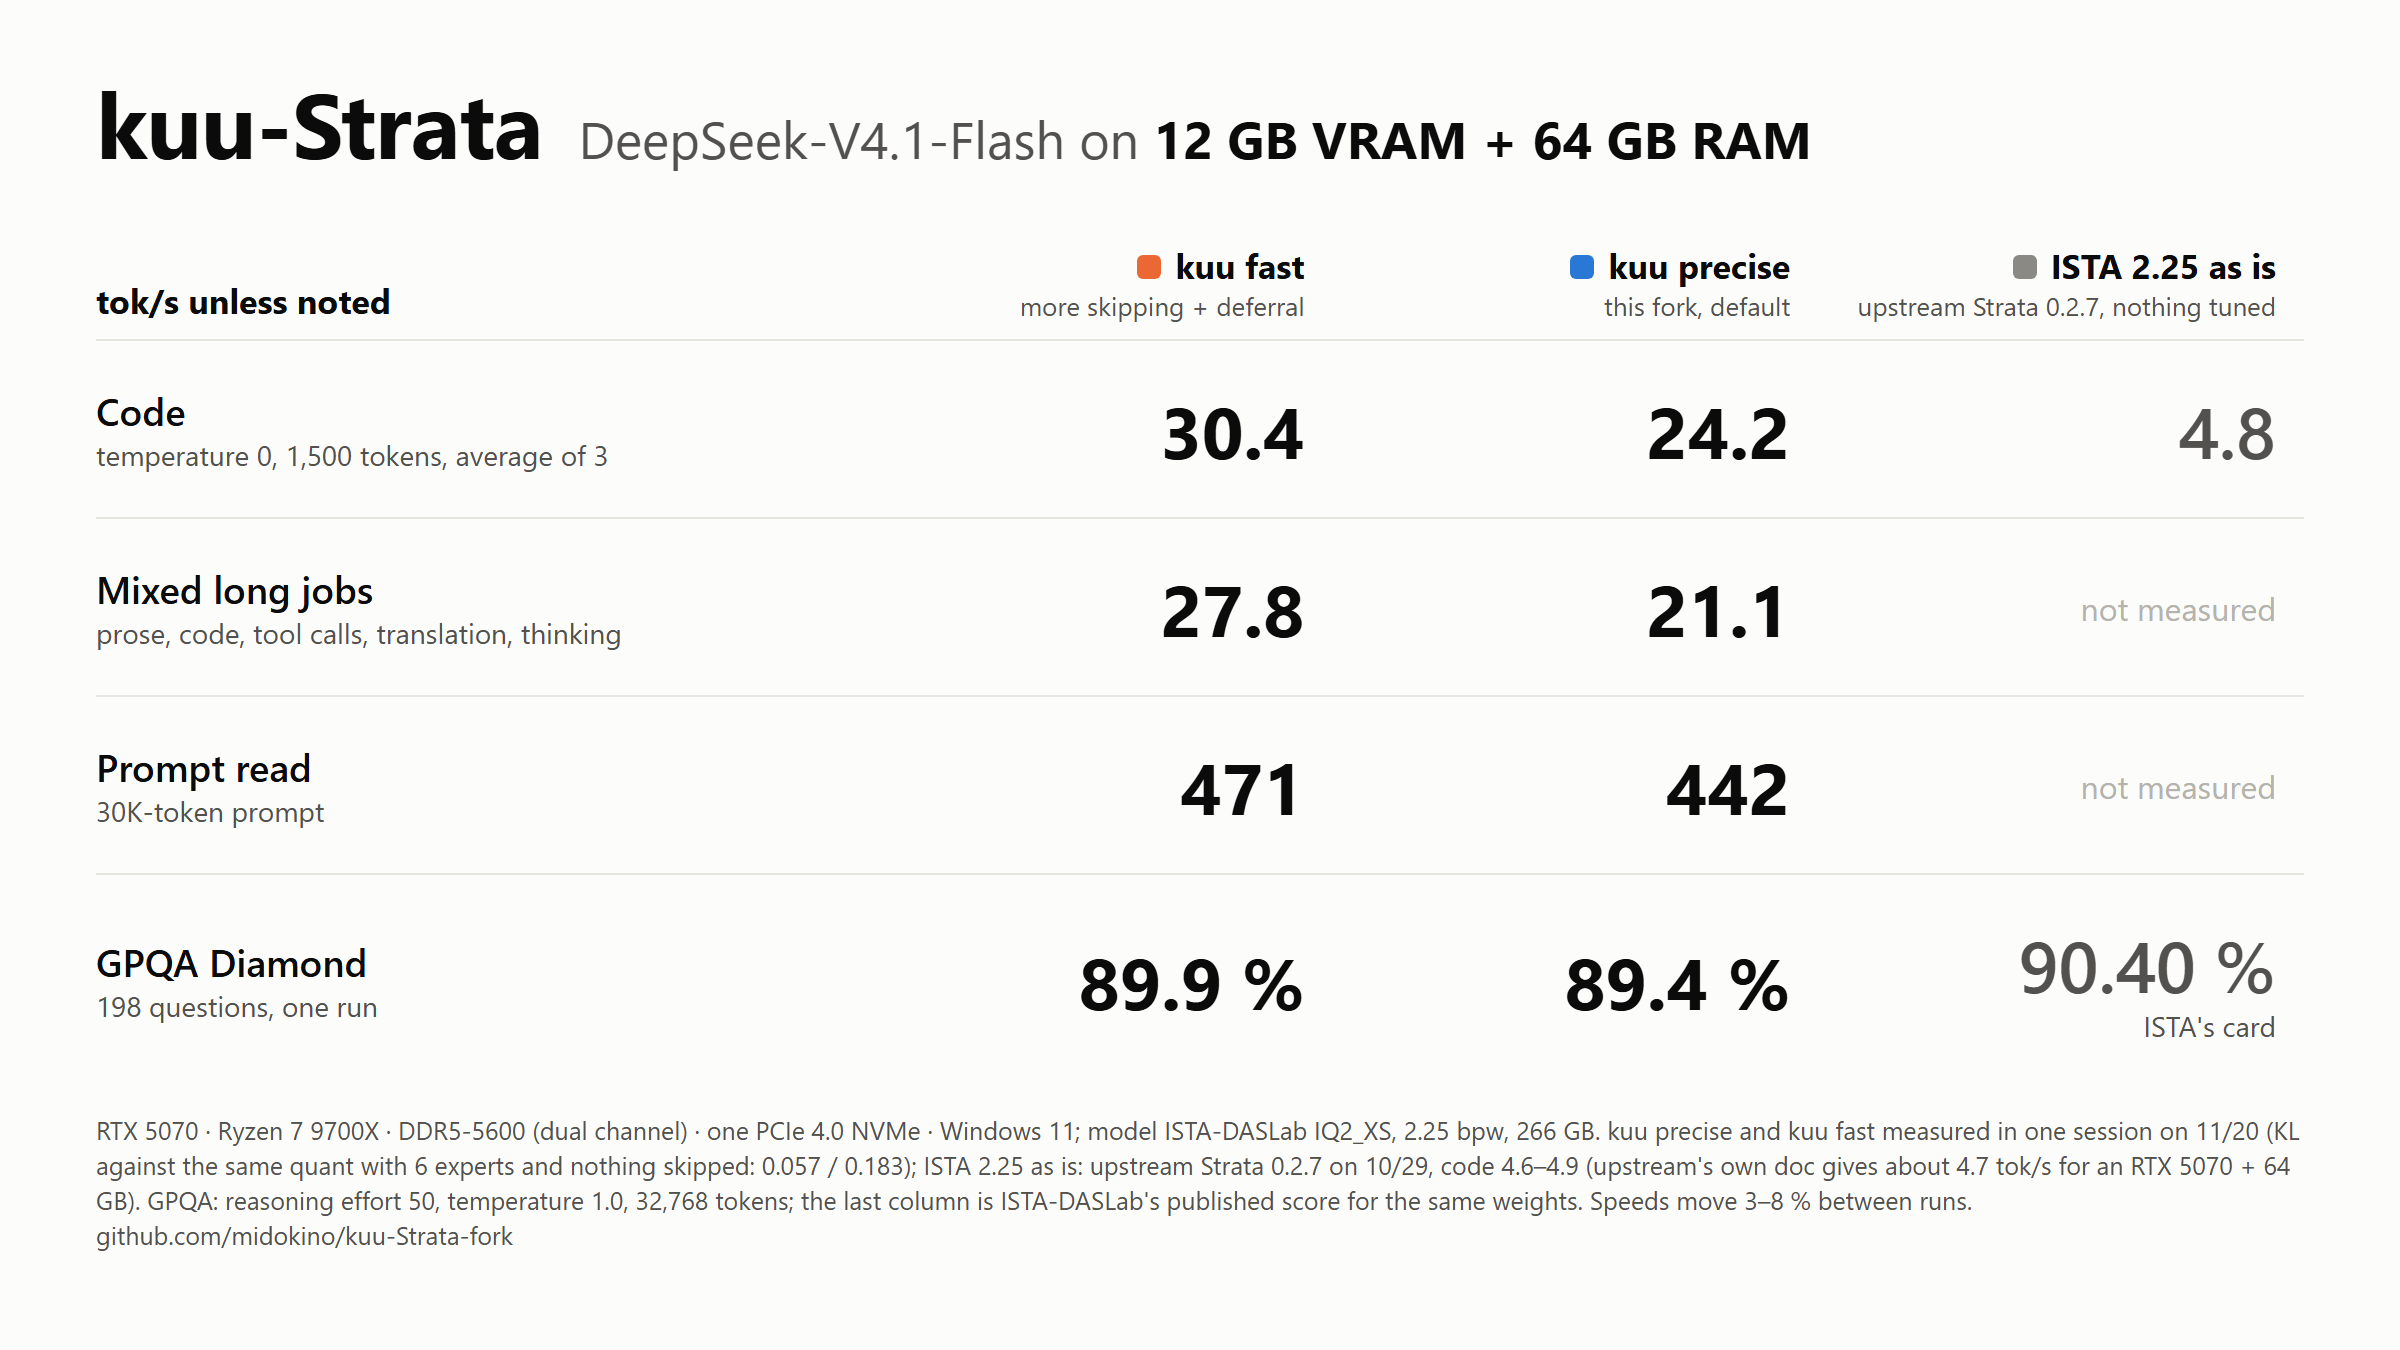
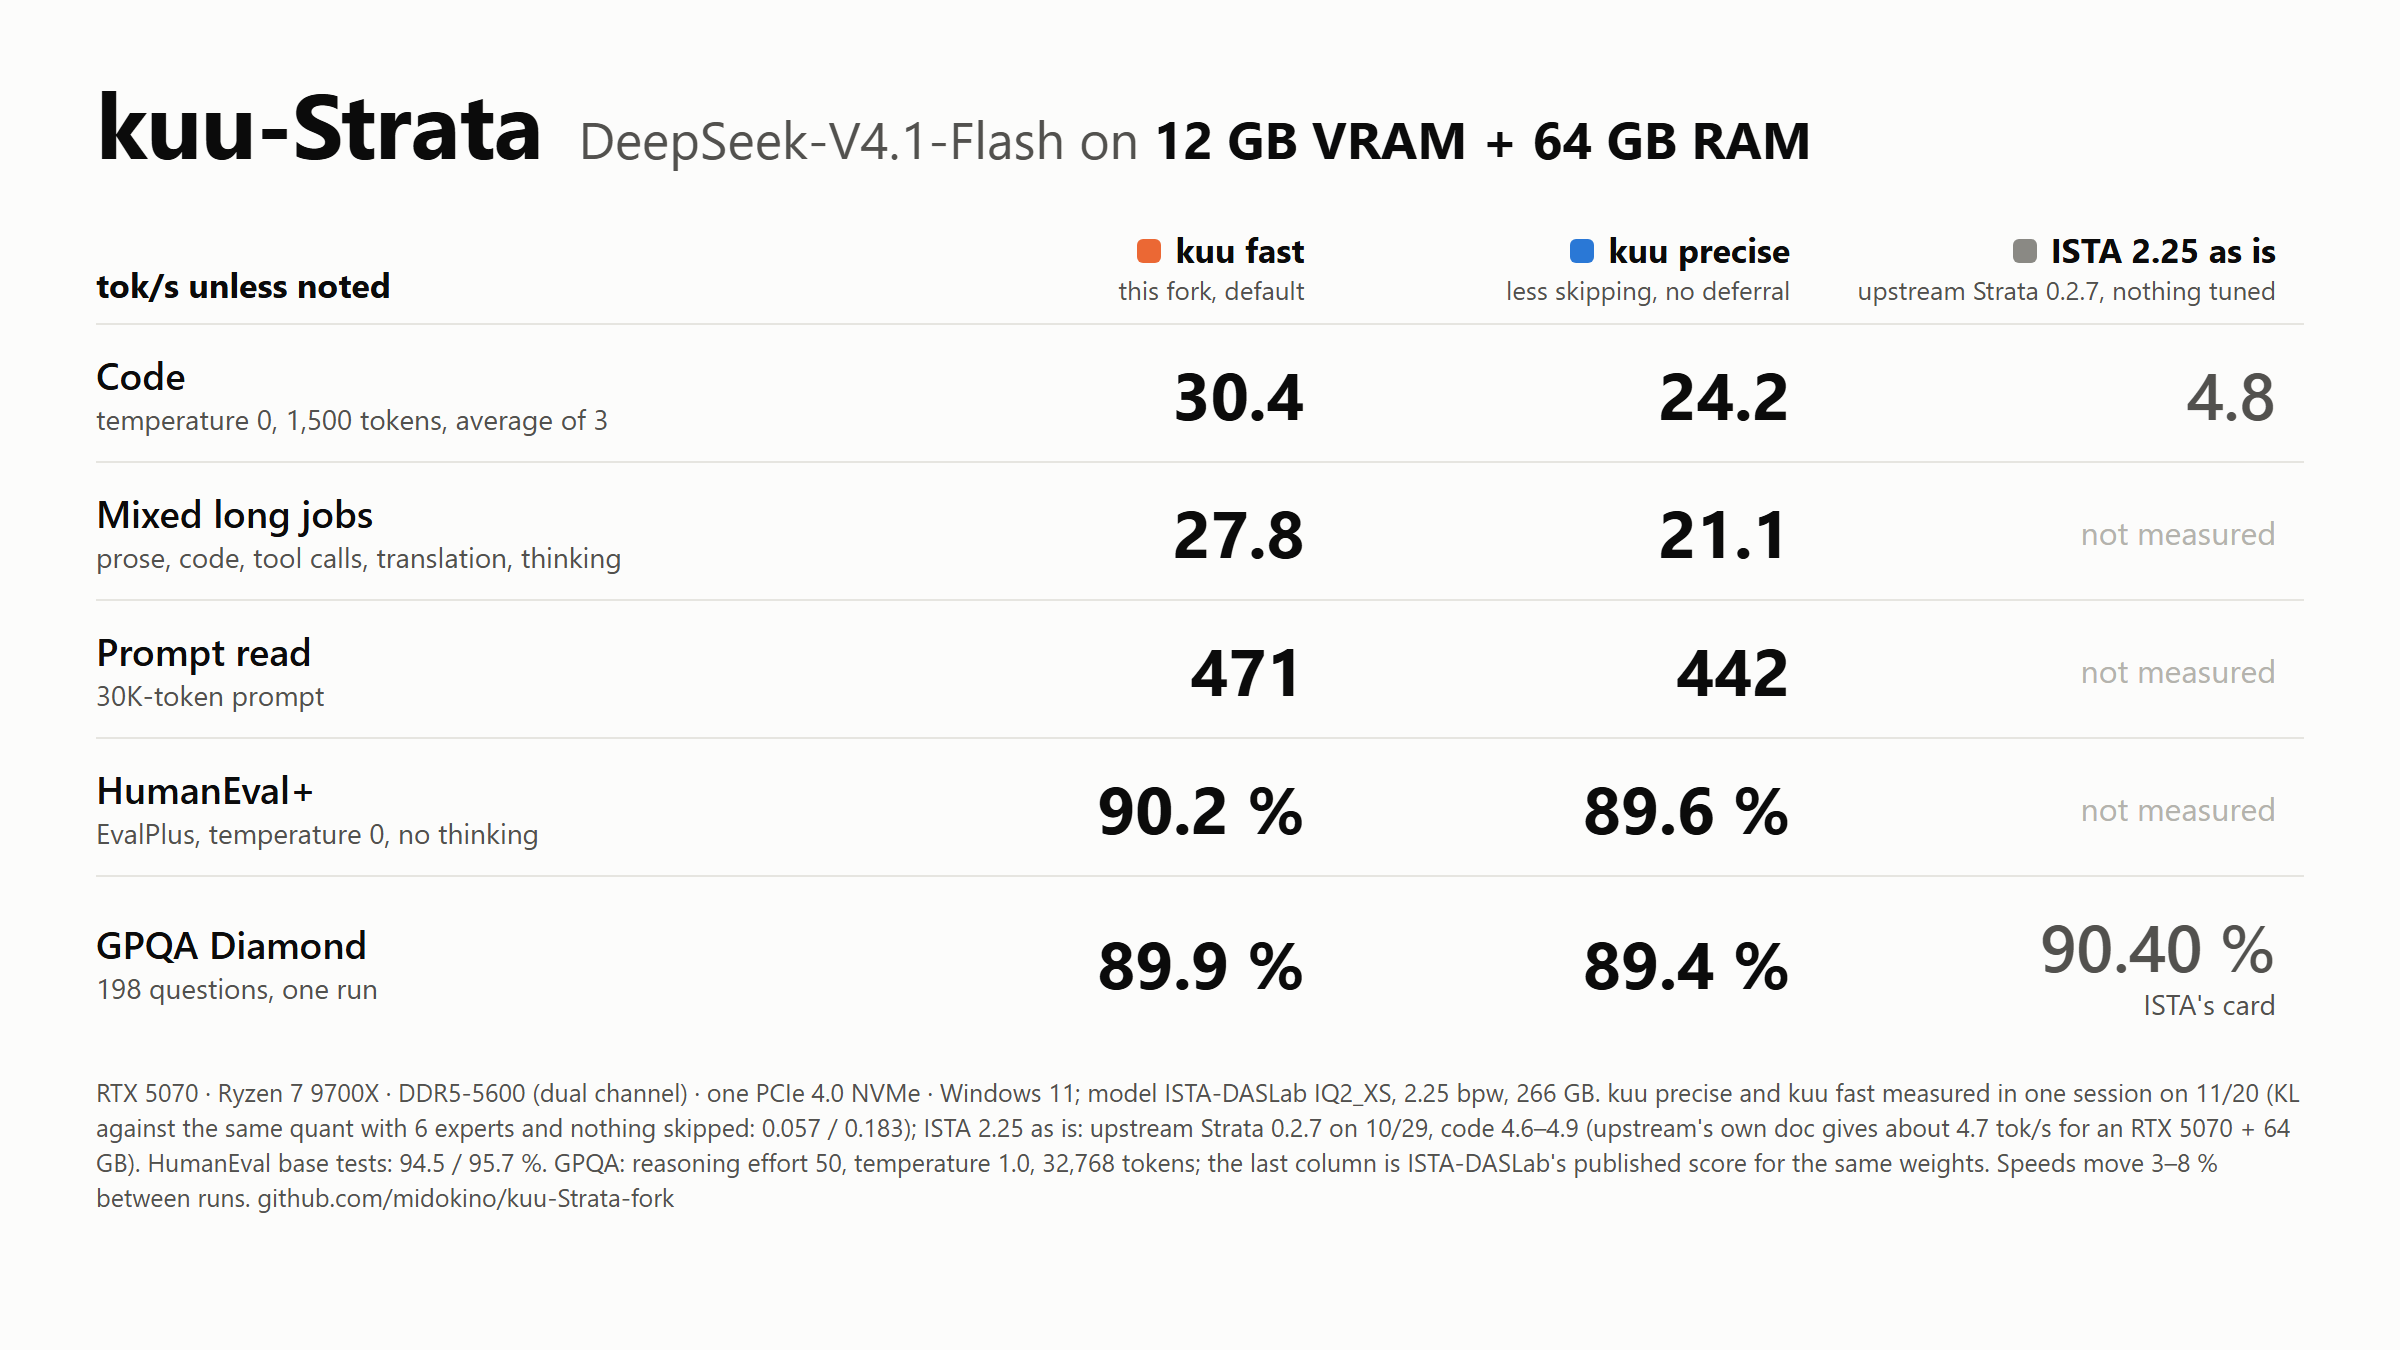
fork: kuu fast is the default; HumanEval+ on the card

diff --git a/docs/img/src/kuu-strata-card.html b/docs/img/src/kuu-strata-card.html
@@ -7,7 +7,7 @@ body{width:1200px;height:675px;font-family:"Segoe UI",system-ui,sans-serif;color
 .top{display:flex;align-items:baseline;gap:18px}
 h1{font-size:46px;margin:0;font-weight:750;letter-spacing:-.5px}
 .sub{font-size:26px;color:var(--ink2)}.sub b{color:var(--ink);font-weight:700}
-.top{margin-bottom:30px}
+.top{margin-bottom:22px}
 .hw{display:flex;gap:8px;margin:16px 0 22px;flex-wrap:wrap}
 .hw span{background:var(--tile);border-radius:6px;padding:5px 11px;font-size:15px;color:var(--ink2)}
 .hw b{color:var(--ink);font-weight:650}
@@ -16,7 +16,7 @@ th{font-size:17px;text-align:right;padding:0 14px 8px;font-weight:700;vertical-a
 th small{display:block;font-size:13px;font-weight:400;color:var(--ink2)}
 th i{display:inline-block;width:12px;height:12px;border-radius:3px;margin-right:7px;vertical-align:0}
 th:first-child{text-align:left;padding-left:0}
-td{border-top:1px solid var(--line);padding:20px 14px;text-align:right;font-size:36px;font-weight:650;font-variant-numeric:tabular-nums}
+td{border-top:1px solid var(--line);padding:12px 14px;text-align:right;font-size:33px;font-weight:650;font-variant-numeric:tabular-nums}
 td:first-child{text-align:left;font-size:19px;font-weight:600;padding-left:0}
 td:first-child small{display:block;font-size:14px;font-weight:400;color:var(--ink2)}
 td.up{color:var(--ink2);font-weight:500}
@@ -29,13 +29,14 @@ td em{font-style:normal;font-size:14px;font-weight:500;color:var(--ink2);margin-
 <table>
 <colgroup><col style="width:34%"><col style="width:22%"><col style="width:22%"><col style="width:22%"></colgroup>
 <tr><th>tok/s unless noted</th>
- <th><i style="background:var(--fast)"></i>kuu fast<small>more skipping + deferral</small></th>
- <th><i style="background:var(--pre)"></i>kuu precise<small>this fork, default</small></th>
+ <th><i style="background:var(--fast)"></i>kuu fast<small>this fork, default</small></th>
+ <th><i style="background:var(--pre)"></i>kuu precise<small>less skipping, no deferral</small></th>
  <th><i style="background:var(--up)"></i>ISTA 2.25 as is<small>upstream Strata 0.2.7, nothing tuned</small></th></tr>
 <tr><td>Code<small>temperature 0, 1,500 tokens, average of 3</small></td><td>30.4</td><td>24.2</td><td class="up">4.8</td></tr>
 <tr><td>Mixed long jobs<small>prose, code, tool calls, translation, thinking</small></td><td>27.8</td><td>21.1</td><td class="na">not measured</td></tr>
 <tr><td>Prompt read<small>30K-token prompt</small></td><td>471</td><td>442</td><td class="na">not measured</td></tr>
+<tr><td>HumanEval+<small>EvalPlus, temperature 0, no thinking</small></td><td>90.2 %</td><td>89.6 %</td><td class="na">not measured</td></tr>
 <tr><td>GPQA Diamond<small>198 questions, one run</small></td><td>89.9 %</td><td>89.4 %</td><td class="up">90.40 %<small class="n">ISTA's card</small></td></tr>
 </table>
-<div class="foot">RTX 5070 · Ryzen 7 9700X · DDR5-5600 (dual channel) · one PCIe 4.0 NVMe · Windows 11; model ISTA-DASLab IQ2_XS, 2.25 bpw, 266 GB. kuu precise and kuu fast measured in one session on 11/20 (KL against the same quant with 6 experts and nothing skipped: 0.057 / 0.183); ISTA 2.25 as is: upstream Strata 0.2.7 on 10/29, code 4.6–4.9 (upstream's own doc gives about 4.7 tok/s for an RTX 5070 + 64 GB). GPQA: reasoning effort 50, temperature 1.0, 32,768 tokens; the last column is ISTA-DASLab's published score for the same weights. Speeds move 3–8 % between runs. <span style="white-space:nowrap">github.com/midokino/kuu-Strata-fork</span></div>
+<div class="foot">RTX 5070 · Ryzen 7 9700X · DDR5-5600 (dual channel) · one PCIe 4.0 NVMe · Windows 11; model ISTA-DASLab IQ2_XS, 2.25 bpw, 266 GB. kuu precise and kuu fast measured in one session on 11/20 (KL against the same quant with 6 experts and nothing skipped: 0.057 / 0.183); ISTA 2.25 as is: upstream Strata 0.2.7 on 10/29, code 4.6–4.9 (upstream's own doc gives about 4.7 tok/s for an RTX 5070 + 64 GB). HumanEval base tests: 94.5 / 95.7 %. GPQA: reasoning effort 50, temperature 1.0, 32,768 tokens; the last column is ISTA-DASLab's published score for the same weights. Speeds move 3–8 % between runs. <span style="white-space:nowrap">github.com/midokino/kuu-Strata-fork</span></div>
 </body></html>

diff --git a/README.md b/README.md
@@ -25,7 +25,7 @@ Ryzen 7 9700X (105 W in BIOS) · RTX 5070 12 GB · DDR5-5600 64 GB (dual channel
 Windows 11 · model: ISTA-DASLab DeepSeek-V4.1-Flash-1017 GSQ-RCO **IQ2_XS (2.25 bpw)**, 5 of 6 experts, DSpark drafter
 on, 128K context.
 
-| | upstream as installed (Strata 0.2.7, 10/29) | starting point (11/12: drafter on, 5 experts, nothing skipped) | kuu precise (this fork, default) | kuu fast |
+| | upstream as installed (Strata 0.2.7, 10/29) | starting point (11/12: drafter on, 5 experts, nothing skipped) | kuu precise | kuu fast (this fork, default) |
 |---|---|---|---|---|
 | short replies (4 kinds, averaged) | about 6.7 tok/s | 12.0 tok/s | 22–23 tok/s | 28.3 tok/s |
 | mixed long generations ("wide": prose, code, tool calls, translation, thinking) | — | about 10 tok/s | 20.6–21.6 tok/s | 27.8 tok/s |
@@ -45,7 +45,7 @@ against that run fast is +26–32 % on generation, +20–22 % on the 4.6K prompt
 ![GPQA Diamond: this fork against ISTA-DASLab's numbers](docs/img/kuu-strata-gpqa.png)
 
 **GPQA Diamond** (198 questions, the simple-evals / LightEval prompt, reasoning effort 50, temperature 1.0, 32,768
-tokens for thinking and answer, no separate thinking budget, the adopted settings below, one run): **89.4 %** (177/198;
+tokens for thinking and answer, no separate thinking budget, kuu precise (settings at the end), one run): **89.4 %** (177/198;
 95 % interval 84.3–93.0 %; physics 94.2 %, chemistry 87.1 %, biology 78.9 %; 20 questions had their thinking closed near
 the token limit, 10 of them still right). For reference, ISTA-DASLab's card gives 90.40 for this quant and 90.91 for the
 original model (their run count and sampling settings are not published); one question's difference is well inside a
@@ -56,16 +56,16 @@ scored 83.8 %; re-asking only that run's 32 misses without the budget turned 17 
 bound, since re-asking only the misses also recovers the ones lost by chance).
 
 A much more aggressive setting scored the same: `STRATA_DS4_DISK_SKIP_W=0.26` with deferral (`STRATA_DS4_DEFER=3`,
-`STRATA_DS4_DEFER_W=0.20`), KL 0.183 against the reference (three times the adopted setting's), got **89.9 %** (178/198)
+`STRATA_DS4_DEFER_W=0.20`), KL 0.183 against the reference (three times kuu precise's), got **89.9 %** (178/198)
 under the same conditions, thinking at 26.7 tok/s instead of 21.8. Question by question, 169 were right in both runs, 8
-only in the adopted one, 9 only in this one: no difference beyond sampling noise. So multiple-choice reasoning survives
+only in kuu precise, 9 only in this one: no difference beyond sampling noise. So multiple-choice reasoning survives
 far more skipping than KL suggests. Code came out the same way on HumanEval+ (temperature 0, no thinking): 95.7 / 89.6 %
-for the adopted setting and 94.5 / 90.2 % for this one (base / plus tests), one or two problems apart either way, although
+for kuu precise and 94.5 / 90.2 % for this one (base / plus tests), one or two problems apart either way, although
 only 25 of the 164 solutions were word for word the same. Exact copying and Japanese prose were not measured this way.
 
 ## What changed (all in `src/dsv41`, environment variables, off unless set)
 
-Adopted on the reference PC (the settings it runs with are at the end):
+Adopted on the reference PC (kuu precise; kuu fast adds more skipping and deferral, both at the end):
 
 | setting | what it does | measured |
 |---|---|---|
@@ -93,8 +93,8 @@ Measured and **not** adopted (kept, off by default, so the numbers can be reprod
 
 A faster setting that measured well: `STRATA_DS4_DISK_SKIP_W=0.24` gives +18 % on "wide" and about 28–31 tok/s on
 code at temperature 0, at KL 0.114 (English suffers most). Going further, `DISK_SKIP_W=0.26` with deferral 0.20 reaches
-about 35 tok/s on code at KL 0.183 and still scored 89.9 % on GPQA Diamond (above). Neither is the default: KL says they
-change the text more; GPQA and HumanEval+ came out the same, exact copying and Japanese prose are unchecked.
+about 35 tok/s on code at KL 0.183 and still scored 89.9 % on GPQA Diamond (above). The second is kuu fast, the default since 11/20: KL says it
+changes the text more, but GPQA and HumanEval+ came out the same; exact copying and Japanese prose are unchecked.
 
 ## Getting DSpark drafts on a 12 GB card
 
@@ -154,14 +154,17 @@ Then build a pack with it (`pack_gguf.py --drafter`) and copy the six `dspark_*`
 
 Two presets, both in the model config's `args` / `env` (the numbers in the card at the top are these two).
 
-### kuu precise (the default)
+### kuu fast (the default)
 
 ```json
 "args": ["--max-context", "131072", "--eos", "1", "--vision", "off", "--dspark", "on", "--dspark-conf", "0.65", "--reserve-mib", "200"],
 "env": {
   "DS4_MTP_VRAM_GB": "0.5",
-  "STRATA_DS4_DISK_SKIP_W": "0.20",
+  "STRATA_DS4_DISK_SKIP_W": "0.26",
   "STRATA_DS4_RAM_SKIP_W": "0.10",
+  "STRATA_DS4_DEFER": "3",
+  "STRATA_DS4_DEFER_W": "0.20",
+  "STRATA_DS4_PROMPT_SKIP": "2",
   "STRATA_DS4_DROP_SHARDS": "1",
   "STRATA_DS4_DSPARK_LAZY": "1",
   "STRATA_DS4_LM_AHEAD": "1",
@@ -170,26 +173,25 @@ Two presets, both in the model config's `args` / `env` (the numbers in the card 
 }
 ```
 
+More skipping of light experts that are not in RAM, deferral of the light experts that remain, and the shorter prompt
+skip. KL against the reference is 0.183 (kuu precise: 0.057), but kuu fast matched kuu precise on GPQA Diamond
+(89.9 / 89.4 %) and HumanEval+ (base 94.5 / 95.7 %, plus 90.2 / 89.6 %), at about +30 % on generation and +7 % on
+30K-token prompt reads. Exact copying and Japanese prose have not been checked, and KL says the wording changes more
+there.
+
 `--reserve-mib 200` and the 105 W BIOS setting depend on the machine: below 150 MiB the reference PC's VRAM spilled into
 shared memory, which Windows does silently (slower, no error).
 
-### kuu fast
+### kuu precise (closest to the unskipped model)
 
-kuu precise with three changes: more skipping of light experts that are not in RAM, deferral of the light experts
-that remain, and the shorter prompt skip. About +30 % on generation and +7 % on 30K-token prompt reads; KL against
-the reference triples (0.057 → 0.183), but GPQA Diamond scored the same (89.9 % against 89.4 %). In `env`, change one
-value and add three:
+kuu fast with less skipping and no deferral. In `env`, change one value and drop three:
 
 ```json
-  "STRATA_DS4_DISK_SKIP_W": "0.26",
-  "STRATA_DS4_DEFER": "3",
-  "STRATA_DS4_DEFER_W": "0.20",
-  "STRATA_DS4_PROMPT_SKIP": "2"
+  "STRATA_DS4_DISK_SKIP_W": "0.20",
 ```
 
-kuu fast matched kuu precise on GPQA Diamond (89.9 / 89.4 %) and HumanEval+ (base 94.5 / 95.7 %, plus 90.2 / 89.6 %);
-exact copying and Japanese prose have not been checked, and KL says the wording changes more there. `STRATA_DS4_DISK_SKIP_W=0.24` alone is a milder step (+18 % on mixed
-long jobs, KL 0.114).
+and remove `STRATA_DS4_DEFER`, `STRATA_DS4_DEFER_W` and `STRATA_DS4_PROMPT_SKIP`. `STRATA_DS4_DISK_SKIP_W=0.24` alone is
+a step in between (+18 % on mixed long jobs, KL 0.114).
 
 ## Credits
 
